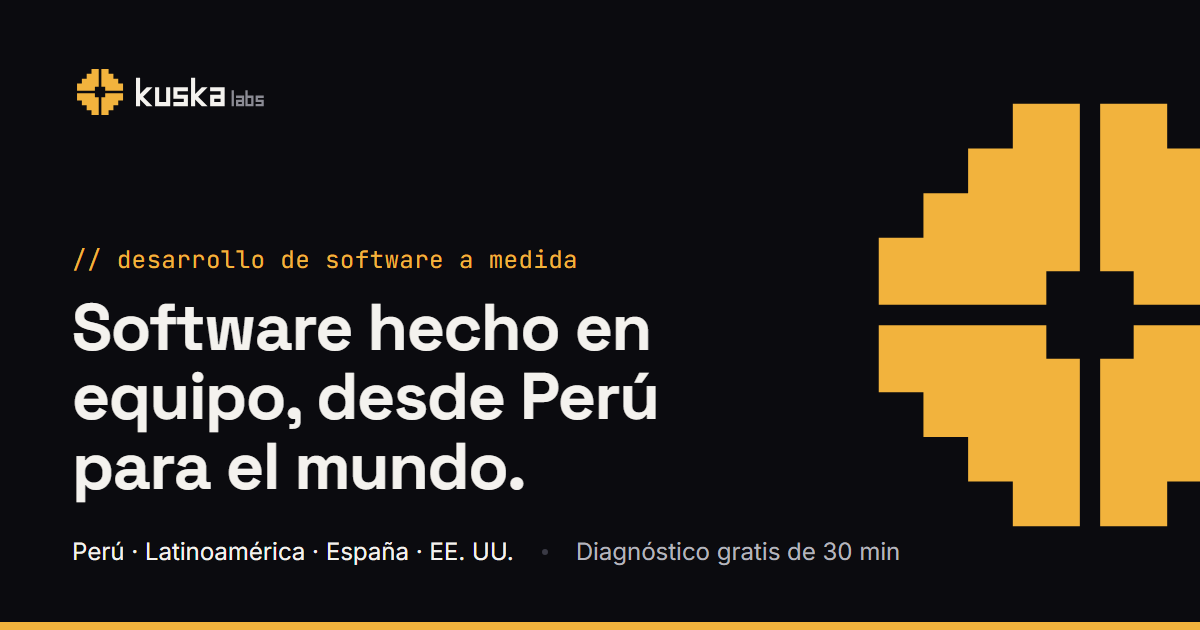
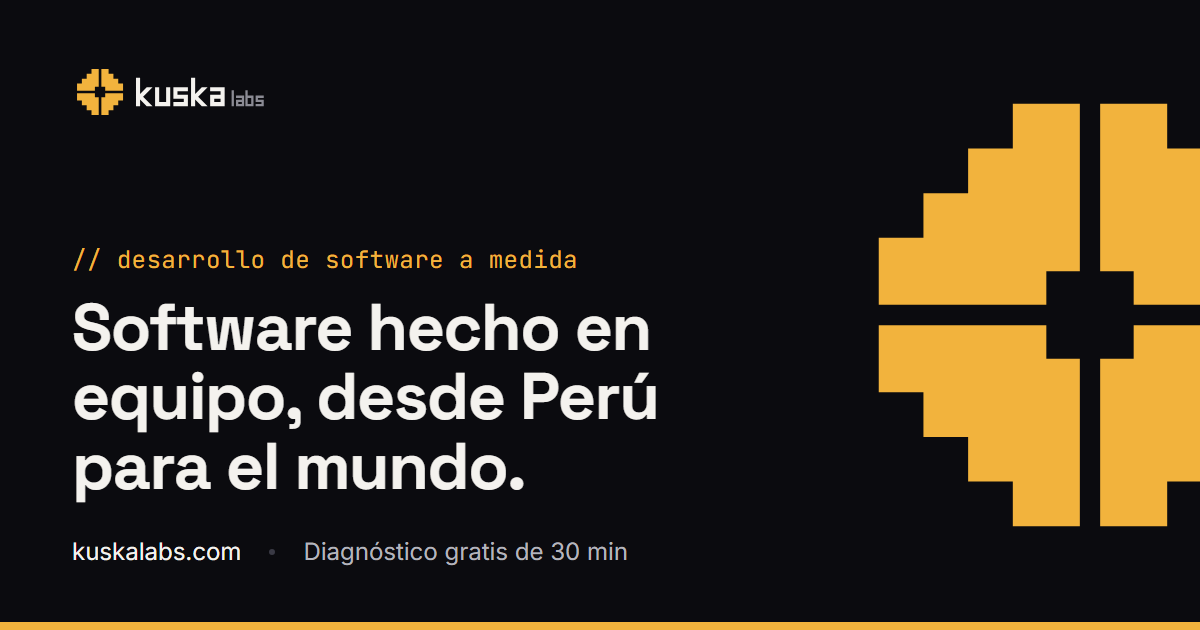
Migración a kuskalabs.com: dominio, correo y formulario activo
- Worker con dominios propios kuskalabs.com y www.kuskalabs.com; www y la
  URL antigua de workers.dev redirigen (301) conservando ruta y parámetros;
  las Preview URLs por versión siguen disponibles
- SITE_URL = https://kuskalabs.com (canonical, sitemap, robots, og:image);
  imágenes para redes regeneradas con el dominio
- Email Routing: hola@kuskalabs.com reenvía a kuskalabs.pe@gmail.com;
  binding send_email restringido a ese destino
- Turnstile (widget "Kuska Labs web"): clave pública en .env.production,
  secreto en el Worker; el formulario pasa a modo API (antispam + D1 + aviso)
- Correo visible en la web: hola@kuskalabs.com

Changed region(s): [[0.0617, 0.8444, 0.74, 0.9048]]

diff --git a/site/worker/worker-configuration.d.ts b/site/worker/worker-configuration.d.ts
@@ -1,9 +1,12 @@
 /* eslint-disable */
-// Generated by Wrangler by running `wrangler types worker/worker-configuration.d.ts` (hash: d23530d8026d248e0fa93a69c333397f)
+// Generated by Wrangler by running `wrangler types worker/worker-configuration.d.ts` (hash: 030d7ab3a86002c1f18d188d2c75abae)
 // Runtime types generated with workerd@1.20261110.1 2026-11-01
 interface __BaseEnv_Env {
 	DB: D1Database;
+	EMAIL: SendEmail;
 	ASSETS: Fetcher;
+	CANONICAL_HOST: "kuskalabs.com";
+	LEGACY_HOST: "kuska-labs-web.renatovr25.workers.dev";
 	MAIL_FROM: "web@kuskalabs.com";
 	MAIL_TO: "kuskalabs.pe@gmail.com";
 	TURNSTILE_SECRET: string;
@@ -19,7 +22,7 @@ type StringifyValues<EnvType extends Record<string, unknown>> = {
 	[Binding in keyof EnvType]: EnvType[Binding] extends string ? EnvType[Binding] : string;
 };
 declare namespace NodeJS {
-	interface ProcessEnv extends StringifyValues<Pick<Cloudflare.Env, "MAIL_FROM" | "MAIL_TO" | "TURNSTILE_SECRET">> {}
+	interface ProcessEnv extends StringifyValues<Pick<Cloudflare.Env, "CANONICAL_HOST" | "LEGACY_HOST" | "MAIL_FROM" | "MAIL_TO" | "TURNSTILE_SECRET">> {}
 }
 declare module "*.txt" {
 	const value: string;

diff --git a/site/worker/index.ts b/site/worker/index.ts
@@ -19,6 +19,8 @@ interface Env {
   TURNSTILE_SECRET?: string;
   MAIL_FROM?: string;
   MAIL_TO?: string;
+  CANONICAL_HOST?: string;
+  LEGACY_HOST?: string;
 }
 
 type Lead = {
@@ -34,6 +36,14 @@ const LIMITS = { name: 120, contact: 160, business: 160, message: 4000 };
 export default {
   async fetch(request: Request, env: Env, ctx: ExecutionContext): Promise<Response> {
     const url = new URL(request.url);
+
+    // Un solo dominio público: www.kuskalabs.com y la URL antigua de workers.dev redirigen (301)
+    // a https://kuskalabs.com conservando ruta y parámetros (enlaces compartidos y SEO).
+    const canonical = env.CANONICAL_HOST;
+    if (canonical && (url.hostname === `www.${canonical}` || url.hostname === env.LEGACY_HOST)) {
+      return Response.redirect(`https://${canonical}${url.pathname}${url.search}`, 301);
+    }
+
     if (url.pathname === '/api/contacto') {
       if (request.method !== 'POST') return json({ ok: false, error: 'method_not_allowed' }, 405);
       return handleContact(request, env, ctx);

diff --git a/site/src/config.ts b/site/src/config.ts
@@ -4,8 +4,8 @@
  */
 
 // URL pública del sitio (canonical, sitemap, imágenes para redes).
-// TODO: al tener dominio, cambiar a 'https://kuskalabs.com' (o .pe).
-export const SITE_URL = 'https://kuska-labs-web.renatovr25.workers.dev';
+// Dominio propio (comprado el 2026-11-13). La URL antigua de workers.dev redirige aquí.
+export const SITE_URL = 'https://kuskalabs.com';
 
 export const BRAND = 'Kuska Labs';
 
@@ -13,7 +13,7 @@ export const BRAND = 'Kuska Labs';
 export const WHATSAPP_NUMBER = '51960098421'; // +51 960 098 421
 
 // Correo del equipo (Gmail compartido)
-export const CONTACT_EMAIL = 'kuskalabs.pe@gmail.com'; // cuando haya dominio: hola@kuskalabs.com (reenvía a este Gmail)
+export const CONTACT_EMAIL = 'hola@kuskalabs.com'; // reenvía a kuskalabs.pe@gmail.com (Email Routing)
 
 // Precios referenciales "desde ..." (soles en español, dólares en inglés). false = ocultarlos.
 export const SHOW_PRICES = true;

diff --git a/brand/og/render_og.py b/brand/og/render_og.py
@@ -38,7 +38,7 @@ def main() -> None:
     PUBLIC.mkdir(parents=True, exist_ok=True)
     for lang in ("es", "en"):
         out = HERE / f"og-{lang}.png"
-        url = (HERE / "og.html").as_uri() + f"?lang={lang}"
+        url = (HERE / "og.html").as_uri() + f"?lang={lang}&url=kuskalabs.com"
         with tempfile.TemporaryDirectory() as profile:
             subprocess.run(
                 [exe, "--headless=new", "--disable-gpu", "--hide-scrollbars", "--allow-file-access-from-files",

diff --git a/site/README.md b/site/README.md
@@ -149,11 +149,11 @@ Para medir un botón nuevo, agrégale `data-umami-event="nombre"` y `data-umami-
 
 ## Pendientes (decisiones del equipo)
 
-- [ ] Dominio definitivo → `SITE_URL` en `src/config.ts` (hoy apunta a la URL de workers.dev)
+- [x] Dominio `kuskalabs.com` (www y la URL antigua de workers.dev redirigen con 301)
 - [x] Correo del equipo: `kuskalabs.pe@gmail.com`
 - [x] WhatsApp: +51 960 098 421
 - [x] Precios visibles (`SHOW_PRICES = true`)
-- [ ] Activar formulario y analítica (ver "Activación" arriba)
+- [x] Formulario activo (Turnstile + D1 + aviso por correo) y analítica (Umami + Search Console)
 - [ ] Revisión legal de la política de privacidad (`src/components/Privacy.astro`): Ley 29733 y, de ser necesario, inscripción del banco de datos ante la ANPD
 - [x] Textos finales v1.0 (`src/i18n/ui.ts`)
 - [ ] Foto y LinkedIn del equipo (opcional)
